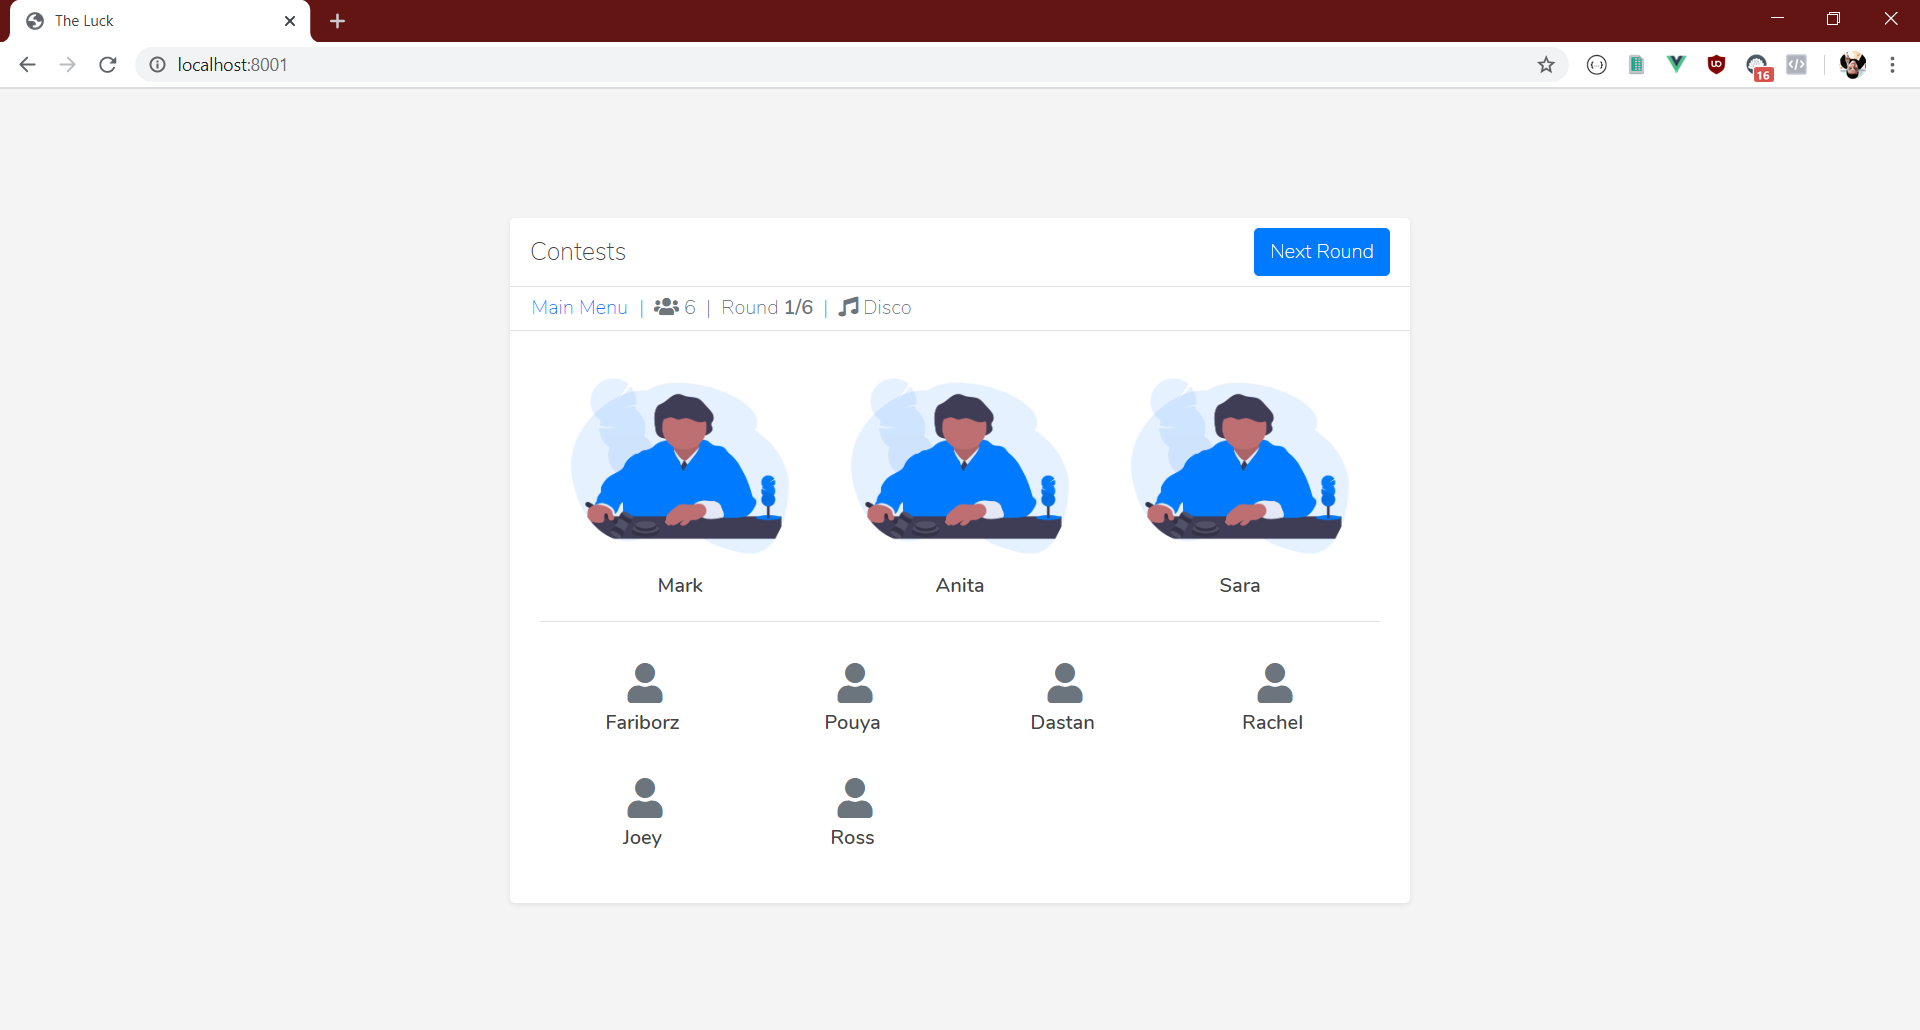
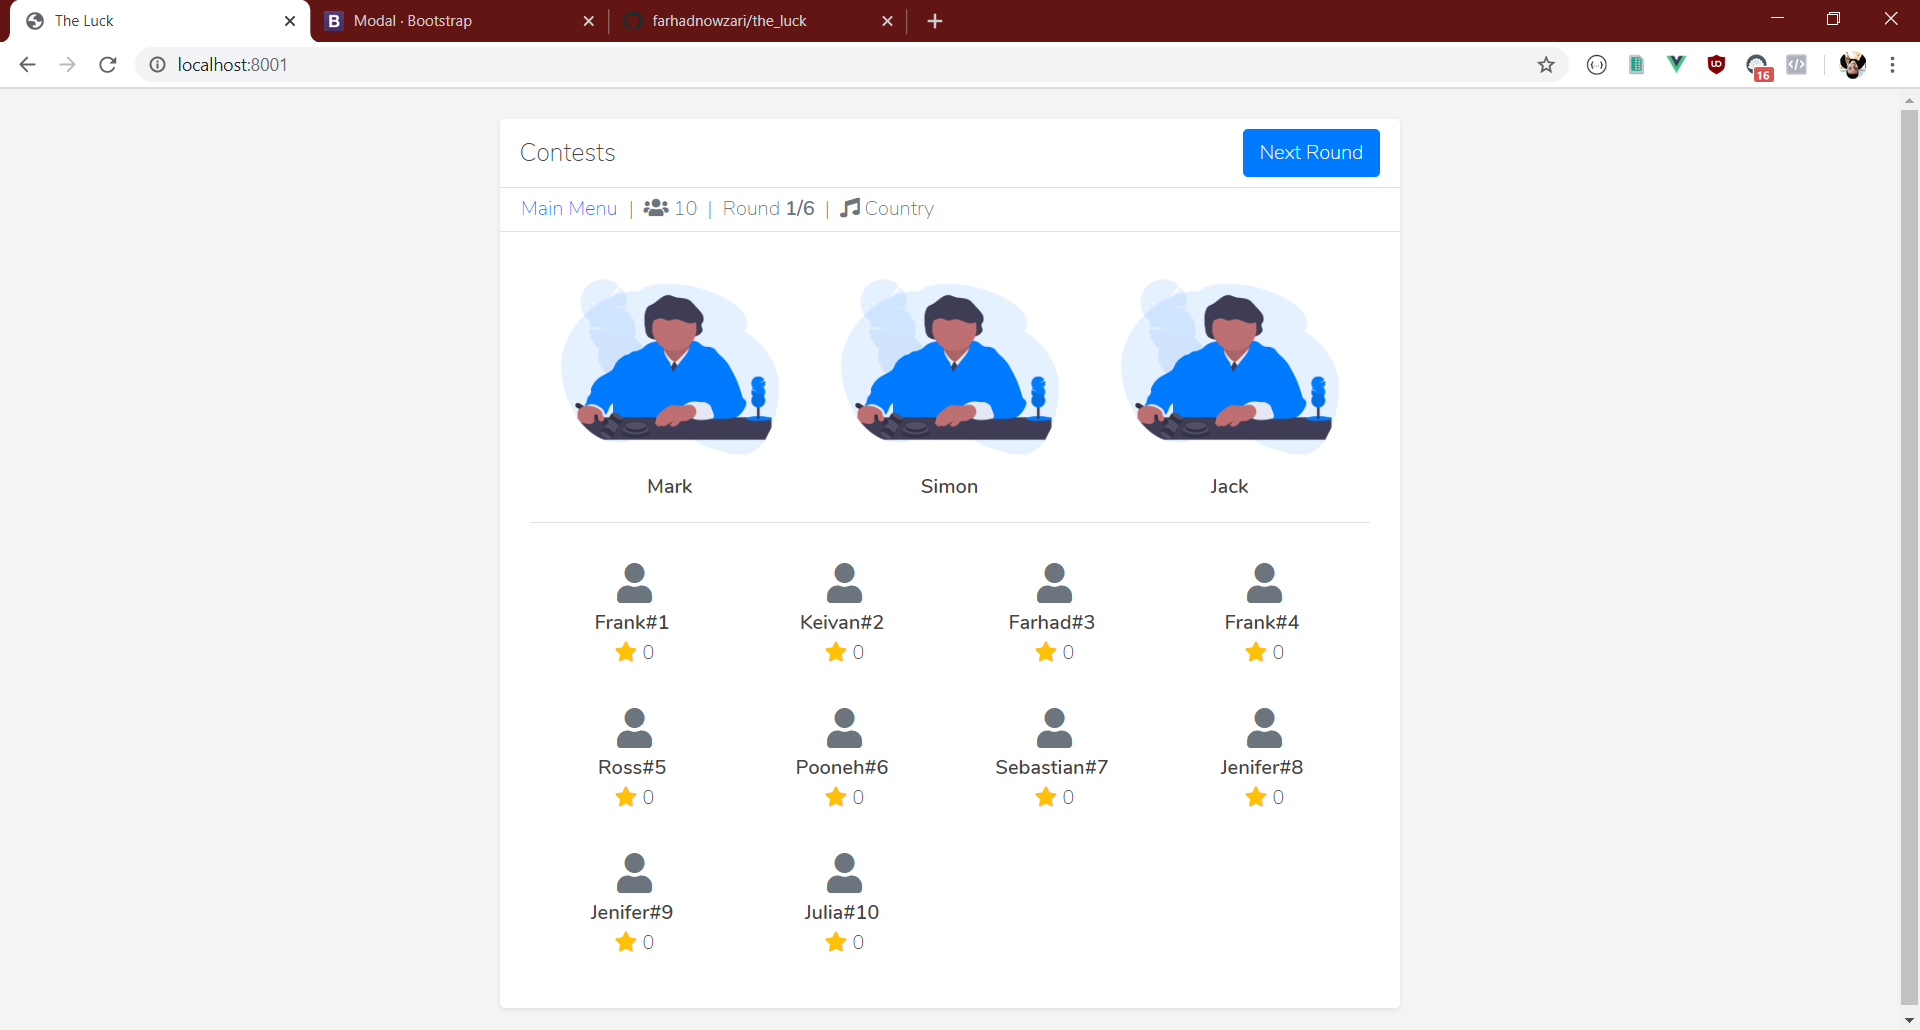
New images uploaded

diff --git a/public/js/game/main.js b/public/js/game/main.js
@@ -378,6 +378,28 @@ function _asyncToGenerator(fn) { return function () { var self = this, args = ar
 //
 //
 //
+//
+//
+//
+//
+//
+//
+//
+//
+//
+//
+//
+//
+//
+//
+//
+//
+//
+//
+//
+//
+//
+//
 
 
 
@@ -409,7 +431,9 @@ var SESSION_ID = window.theLuck.get('sessionId');
       contest: null,
       contestComponentKey: 1,
       forceMainMenu: false,
-      winnerOfAllTimes: null
+      winnerOfAllTimes: null,
+      lastContest: null,
+      lastContestWinnerModal: null
     };
   },
   methods: {
@@ -437,18 +461,31 @@ var SESSION_ID = window.theLuck.get('sessionId');
           while (1) {
             switch (_context.prev = _context.next) {
               case 0:
+                _this2.lastContest = _ContestViewModel__WEBPACK_IMPORTED_MODULE_4__["ContestViewModel"].build(_this2.contest);
                 _this2.contest = null;
                 _this2.oldContests = [];
 
                 _this2.loadMenu();
 
-              case 3:
+              case 4:
               case "end":
                 return _context.stop();
             }
           }
         }, _callee);
       }))();
+    },
+    initialWinnerModal: function initialWinnerModal() {
+      if (this.lastContestWinnerModal) {
+        this.lastContestWinnerModal.modal('show');
+      } else {
+        var $modal = $('#last-contest-winner-modal');
+
+        if ($modal && $modal.length > 0) {
+          this.lastContestWinnerModal = $modal;
+          this.lastContestWinnerModal.modal('show');
+        }
+      }
     },
     retrieveOngoingContest: function retrieveOngoingContest() {
       var _this3 = this;
@@ -485,6 +522,8 @@ var SESSION_ID = window.theLuck.get('sessionId');
           _this4.contest = response.data.length === 0 || !response.data ? null : response.data;
           _this4.contest = _ContestViewModel__WEBPACK_IMPORTED_MODULE_4__["ContestViewModel"].build(_this4.contest);
           _this4.loading = false;
+
+          _this4.initialWinnerModal();
         })["catch"](function (e) {
           console.error(e);
           _this4.loading = false;
@@ -2805,7 +2844,6 @@ var render = function() {
   var _c = _vm._self._c || _h
   return _c(
     "div",
-    { staticClass: "d-flex align-items-center h-100" },
     [
       _c(
         "div",
@@ -2877,7 +2915,7 @@ var render = function() {
                       "div",
                       {
                         staticClass:
-                          "d-flex align-items-center justify-content-center flex-column w-100 my-5"
+                          "d-flex align-items-center justify-content-center flex-column w-100 my-5 py-3"
                       },
                       [
                         _c("img", {
@@ -2978,6 +3016,55 @@ var render = function() {
         1
       ),
       _vm._v(" "),
+      _vm.lastContest
+        ? _c(
+            "div",
+            {
+              staticClass: "modal fade",
+              attrs: { id: "last-contest-winner-modal", tabindex: "-1" }
+            },
+            [
+              _c(
+                "div",
+                {
+                  staticClass: "modal-dialog modal-dialog-centered modal-sm",
+                  attrs: { role: "document" }
+                },
+                [
+                  _c("div", { staticClass: "modal-content" }, [
+                    _vm._m(2),
+                    _vm._v(" "),
+                    _c("div", { staticClass: "modal-body" }, [
+                      _c(
+                        "div",
+                        {
+                          staticClass:
+                            "w-100 d-flex align-items-center justify-content-center flex-column"
+                        },
+                        [
+                          _c("i", {
+                            staticClass: "fa fa-trophy fa-3x text-warning"
+                          }),
+                          _vm._v(" "),
+                          _c("h5", { staticClass: "mt-3" }, [
+                            _vm._v(_vm._s(_vm.lastContest.winnerName))
+                          ]),
+                          _vm._v(" "),
+                          _c("strong", [
+                            _vm._v(_vm._s(_vm.lastContest.highestScore))
+                          ])
+                        ]
+                      )
+                    ]),
+                    _vm._v(" "),
+                    _vm._m(3)
+                  ])
+                ]
+              )
+            ]
+          )
+        : _vm._e(),
+      _vm._v(" "),
       _vm.loading ? _c("loader", { attrs: { text: "Please wait" } }) : _vm._e()
     ],
     1
@@ -3005,6 +3092,38 @@ var staticRenderFns = [
     return _c("div", { staticClass: "py-2 px-3 bg-light border-bottom" }, [
       _c("i", { staticClass: "fa fa-user-crown" }),
       _vm._v(" Winner of all times\n                    ")
+    ])
+  },
+  function() {
+    var _vm = this
+    var _h = _vm.$createElement
+    var _c = _vm._self._c || _h
+    return _c("div", { staticClass: "modal-header" }, [
+      _c("h5", { staticClass: "modal-title" }, [_vm._v("Winner")]),
+      _vm._v(" "),
+      _c(
+        "button",
+        {
+          staticClass: "close",
+          attrs: { type: "button", "data-dismiss": "modal" }
+        },
+        [_c("span", { attrs: { "aria-hidden": "true" } }, [_vm._v("×")])]
+      )
+    ])
+  },
+  function() {
+    var _vm = this
+    var _h = _vm.$createElement
+    var _c = _vm._self._c || _h
+    return _c("div", { staticClass: "modal-footer" }, [
+      _c(
+        "button",
+        {
+          staticClass: "btn btn-outline-secondary",
+          attrs: { "data-dismiss": "modal", type: "button" }
+        },
+        [_vm._v("Close")]
+      )
     ])
   }
 ]

diff --git a/readme.md b/readme.md
@@ -56,8 +56,8 @@ SICKNESS_PROBABILITY=5
 When there is no contest available for the current `session`.
 ![Image of Yaktocat](https://github.com/farhadnowzari/the_luck/blob/master/blank_menu.png?raw=true)
 ### Image #2
-Image #2 shows how a contest looks like with 6 contestants(Its adjudtable from the env file) <br>
-`Note`: if the contestant gets sick a yellow frown face appears near their name.
+Image #2 shows how a contest looks like with 10 contestants(Its adjudtable from the env file) <br>
+`Note`: if the contestant gets sick a red frown face appears near their name.
 ![Image of Yaktocat](https://github.com/farhadnowzari/the_luck/blob/master/contest.png?raw=true)
 ### Image #3
 Image #3 shows a main menu when the current `session` at least has one finished contest.
